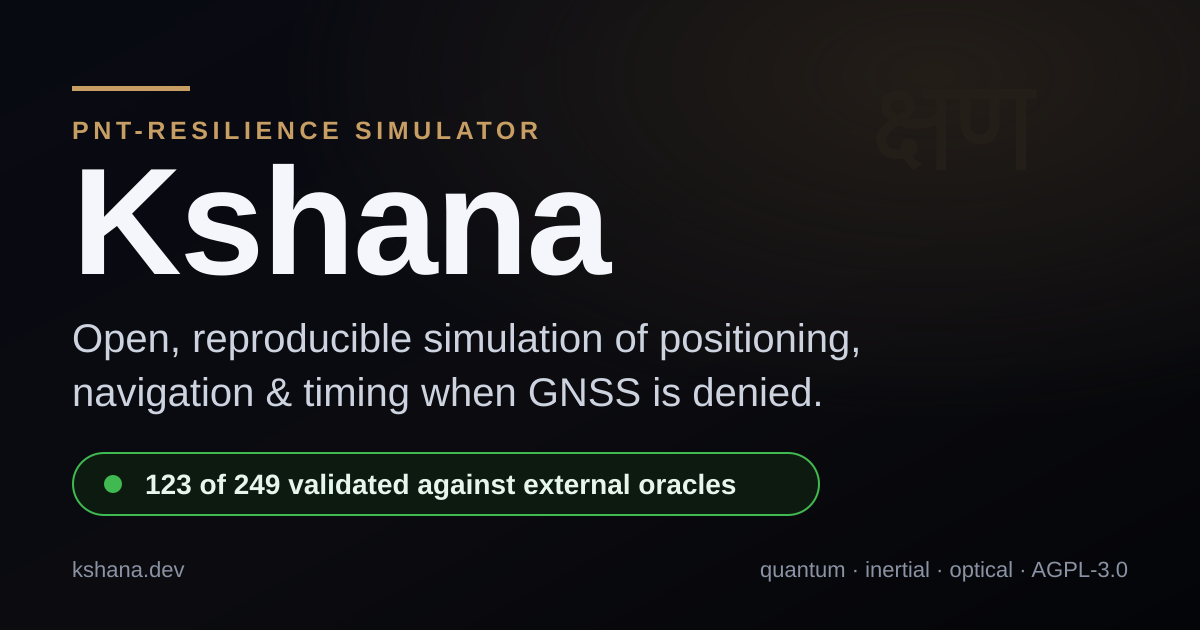
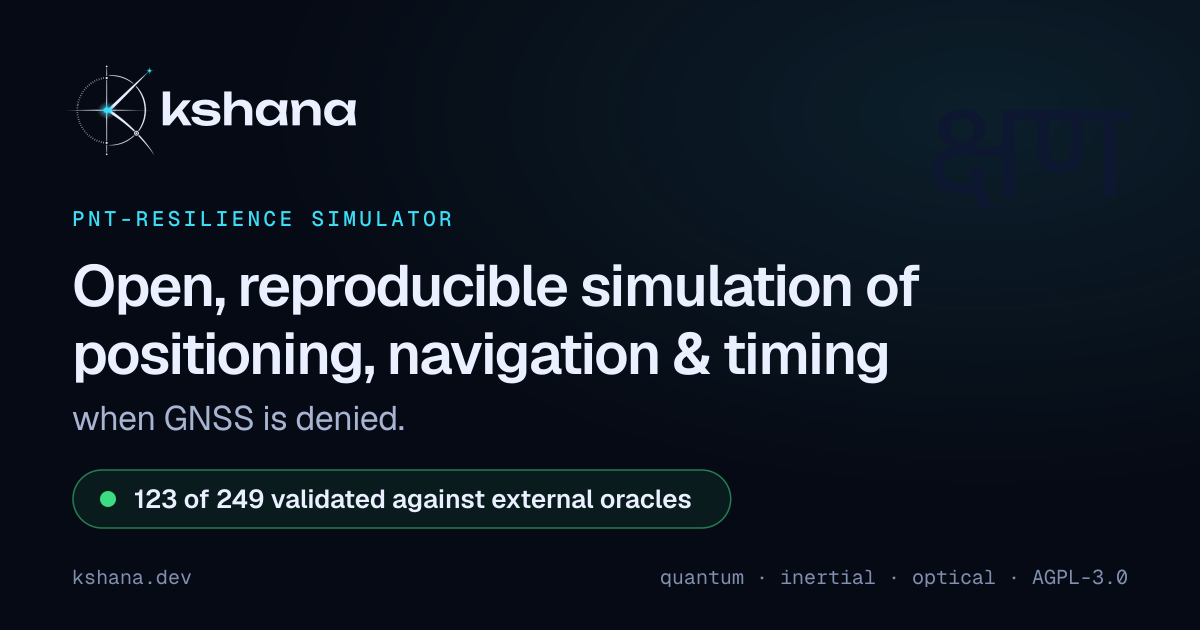
web: draw the social card in the site's Observatory theme
tools/gen_og_card.py now draws the whole card from the ledger with the README
images' machinery: the dark Observatory tokens, the founder's mark recoloured as the
site recolours it, and Unbounded, Geist and Geist Mono converted to outlines from
tools/readme-fonts/, so the render no longer depends on installed fonts (it was
Helvetica on a warm tan). The validated-count sentence is in the SVG's <desc>, which
tests/web_validation_counts_doc_sync.rs reads; --check now regenerates in memory.

diff --git a/tools/gen_og_card.py b/tools/gen_og_card.py
@@ -10,34 +10,49 @@ WHY THIS EXISTS
     invisible to every doc-sync test, and there was no source to check it against.
 
     Now the count comes from web/data/verification-matrix.json (itself generated from
-    src/verification.rs), the SVG that carries it is committed and text-searchable, and
-    tests/web_validation_counts_doc_sync.rs pins that text to the ledger and binds the PNG
-    to the SVG it was rendered from.
+    src/verification.rs), the SVG that carries it is committed and text-searchable (the
+    sentence is in its <desc>), and tests/web_validation_counts_doc_sync.rs pins that text
+    to the ledger and binds the PNG to the SVG it was rendered from.
+
+HOW IT IS DRAWN
+    In the site's Observatory dark theme, with the README images' own machinery
+    (tools/gen_readme_assets.py): the same colour tokens, the founder's mark recoloured the
+    way the site recolours it, and every Latin word converted to outlines from the OFL fonts
+    in tools/readme-fonts/ (Unbounded for the wordmark, Geist for text, Geist Mono for
+    labels), so the render does not depend on the fonts a machine has installed. The one
+    exception is the Devanagari क्षण, which needs conjunct shaping: it stays live text, set
+    in Noto Sans Devanagari (the site's face) or the system's Devanagari font.
 
 USAGE
-    python3 tools/gen_og_card.py            # rewrite the count, re-render, update the record
+    python3 tools/gen_og_card.py            # rewrite the SVG, re-render the PNG, update the record
     python3 tools/gen_og_card.py --check    # report drift, change nothing (exit 1 if stale)
 
-Requires rsvg-convert (brew install librsvg).
+Requires rsvg-convert (brew install librsvg) and what tools/gen_readme_assets.py requires
+(fontTools, numpy, Pillow).
 """
 
 import argparse
 import hashlib
 import json
 import pathlib
-import re
 import subprocess
 import sys
 
 ROOT = pathlib.Path(__file__).resolve().parent.parent
+sys.path.insert(0, str(ROOT / "tools"))
+import gen_readme_assets as ra  # noqa: E402  (the README images' theme, fonts and SVG builder)
+
 MATRIX = ROOT / "web/data/verification-matrix.json"
 SVG = ROOT / "web/og-card.svg"
 PNG = ROOT / "web/og-card.png"
 RECORD = ROOT / "web/og-card.rendered-from.json"
 
-# The one sentence on the card that carries numbers. Kept as a pattern so the generator
-# rewrites it rather than rebuilding the card, and so the test can assert the same shape.
-COUNT_RE = re.compile(r"\d+ of \d+ validated against external oracles")
+W, H = 1200, 630
+EYEBROW = "PNT-resilience simulator"
+HEADLINE = ("Open, reproducible simulation of", "positioning, navigation & timing")
+SUBLINE = "when GNSS is denied."
+FOOT_L = "kshana.dev"
+FOOT_R = "quantum · inertial · optical · AGPL-3.0"
 
 
 def counts():
@@ -45,56 +60,81 @@ def counts():
     return s["validated"], s["total"]
 
 
-def main():
-    ap = argparse.ArgumentParser()
-    ap.add_argument("--check", action="store_true", help="report drift without writing")
-    args = ap.parse_args()
-
+def card_svg() -> str:
+    t = ra.DARK
     validated, total = counts()
-    want = f"{validated} of {total} validated against external oracles"
-    svg = SVG.read_text()
+    tally = f"{validated} of {total} validated against external oracles"
+    desc = (f"Kshana, {EYEBROW.lower()}. {' '.join(HEADLINE)} {SUBLINE} {tally}. "
+            f"{FOOT_L} · {FOOT_R}.")
+    s = ra.Svg(W, H, "Kshana", desc)
 
-    found = COUNT_RE.search(svg)
-    if not found:
-        sys.exit(f"{SVG}: no '<n> of <n> validated against external oracles' string to update")
+    s.defs.append('<radialGradient id="glow" cx="0.82" cy="0.18" r="0.6">'
+                  f'<stop offset="0" stop-color="{t["cyan"]}" stop-opacity="0.10"/>'
+                  f'<stop offset="1" stop-color="{t["cyan"]}" stop-opacity="0"/></radialGradient>')
+    s.rect(0, 0, W, H, fill=t["bg"])
+    s.rect(0, 0, W, H, fill="url(#glow)")
 
-    if args.check:
-        stale = []
-        if found.group(0) != want:
-            stale.append(f"  {SVG.name}: says {found.group(0)!r}, ledger says {want!r}")
-        if RECORD.exists():
-            rec = json.loads(RECORD.read_text())
-            actual = hashlib.sha256(SVG.read_bytes()).hexdigest()
-            if rec.get("svg_sha256") != actual:
-                stale.append(f"  {PNG.name}: rendered from an older {SVG.name}")
-        else:
-            stale.append(f"  {RECORD.name}: missing, so nothing binds the PNG to its SVG")
-        if stale:
-            print("og-card is stale:\n" + "\n".join(stale))
-            return 1
-        print(f"og-card is current: {want}")
-        return 0
+    # the motto, quiet, top right (live text: Devanagari needs conjunct shaping)
+    s.add(f'<text x="1128" y="196" text-anchor="end" font-family="Noto Sans Devanagari, Kohinoor Devanagari, '
+          f'Devanagari MT, sans-serif" font-size="132" font-weight="500" fill="{t["bg3"]}">&#2325;&#2381;&#2359;&#2339;</text>')
 
-    if found.group(0) != want:
-        svg = COUNT_RE.sub(want, svg, count=1)
-        SVG.write_text(svg)
-        print(f"  {SVG.name}: count -> {want}")
-    else:
-        print(f"  {SVG.name}: count already {want}")
+    # the nav lockup: the mark, and kshana in Unbounded 500
+    mark = 104
+    s.add(f'<image href="{ra.png_data_uri(ra.mark_image(t))}" x="58" y="58" width="{mark}" height="{mark}"/>')
+    s.text("kshana", 58 + mark - 2, 58 + mark * 0.495 + 44 * 0.36, 44, t["ink"], "display", 500, ls=-0.01)
 
-    subprocess.run(["rsvg-convert", "-w", "1200", "-h", "630", str(SVG), "-o", str(PNG)],
-                   check=True)
-    print(f"  {PNG.name}: re-rendered at 1200x630")
+    s.text(EYEBROW, 72, 226, 21, t["cyan"], "mono", 500, ls=0.16, upper=True)
+    s.text(HEADLINE[0], 72, 306, 58, t["ink"], "sans", 600, ls=-0.028)
+    s.text(HEADLINE[1], 72, 374, 58, t["ink"], "sans", 600, ls=-0.028)
+    s.text(SUBLINE, 72, 430, 34, t["ink2"], "sans", 400, ls=-0.012)
 
-    RECORD.write_text(json.dumps({
+    green = "#3DDC84"  # --s-itg, the site's validated colour on dark ground
+    tw = ra.Face.get("sans", 600).width(tally, 26)
+    s.rect(73, 470, tw + 100, 58, fill=ra.blend(green, t["bg"], 0.08), stroke=ra.blend(green, t["bg"], 0.55), sw=1.5, r=29)
+    s.circle(108, 499, 8, fill=green)
+    s.text(tally, 134, 508, 26, t["ink"], "sans", 600)
+
+    s.text(FOOT_L, 72, 584, 20, t["ink3"], "mono", 400)
+    s.text(FOOT_R, 1128, 584, 20, t["ink3"], "mono", 400, anchor="end")
+    return s.render()
+
+
+def record_for(svg_bytes: bytes) -> str:
+    return json.dumps({
         "note": ("Binds web/og-card.png to the exact web/og-card.svg bytes it was rendered "
                  "from. The card states a count that no test can read out of a PNG, so the "
                  "SVG's text is pinned to the evidence ledger and this record catches a PNG "
                  "left behind by an SVG edit. Regenerate both with tools/gen_og_card.py."),
         "png": PNG.name,
         "svg": SVG.name,
-        "svg_sha256": hashlib.sha256(SVG.read_bytes()).hexdigest(),
-    }, indent=2) + "\n")
+        "svg_sha256": hashlib.sha256(svg_bytes).hexdigest(),
+    }, indent=2) + "\n"
+
+
+def main():
+    ap = argparse.ArgumentParser()
+    ap.add_argument("--check", action="store_true", help="report drift without writing")
+    args = ap.parse_args()
+
+    want = card_svg()
+    if args.check:
+        stale = []
+        if not SVG.exists() or SVG.read_text() != want:
+            stale.append(f"  {SVG.name}: differs from what the generator draws from the ledger")
+        if not RECORD.exists() or RECORD.read_text() != record_for(SVG.read_bytes() if SVG.exists() else b""):
+            stale.append(f"  {PNG.name}: rendered from an older {SVG.name} (or {RECORD.name} missing)")
+        if stale:
+            print("og-card is stale:\n" + "\n".join(stale))
+            return 1
+        validated, total = counts()
+        print(f"og-card is current: {validated} of {total} validated against external oracles")
+        return 0
+
+    SVG.write_text(want)
+    print(f"  {SVG.name}: written ({len(want):,} bytes)")
+    subprocess.run(["rsvg-convert", "-w", str(W), "-h", str(H), str(SVG), "-o", str(PNG)], check=True)
+    print(f"  {PNG.name}: re-rendered at {W}x{H}")
+    RECORD.write_text(record_for(SVG.read_bytes()))
     print(f"  {RECORD.name}: updated")
     return 0
 
